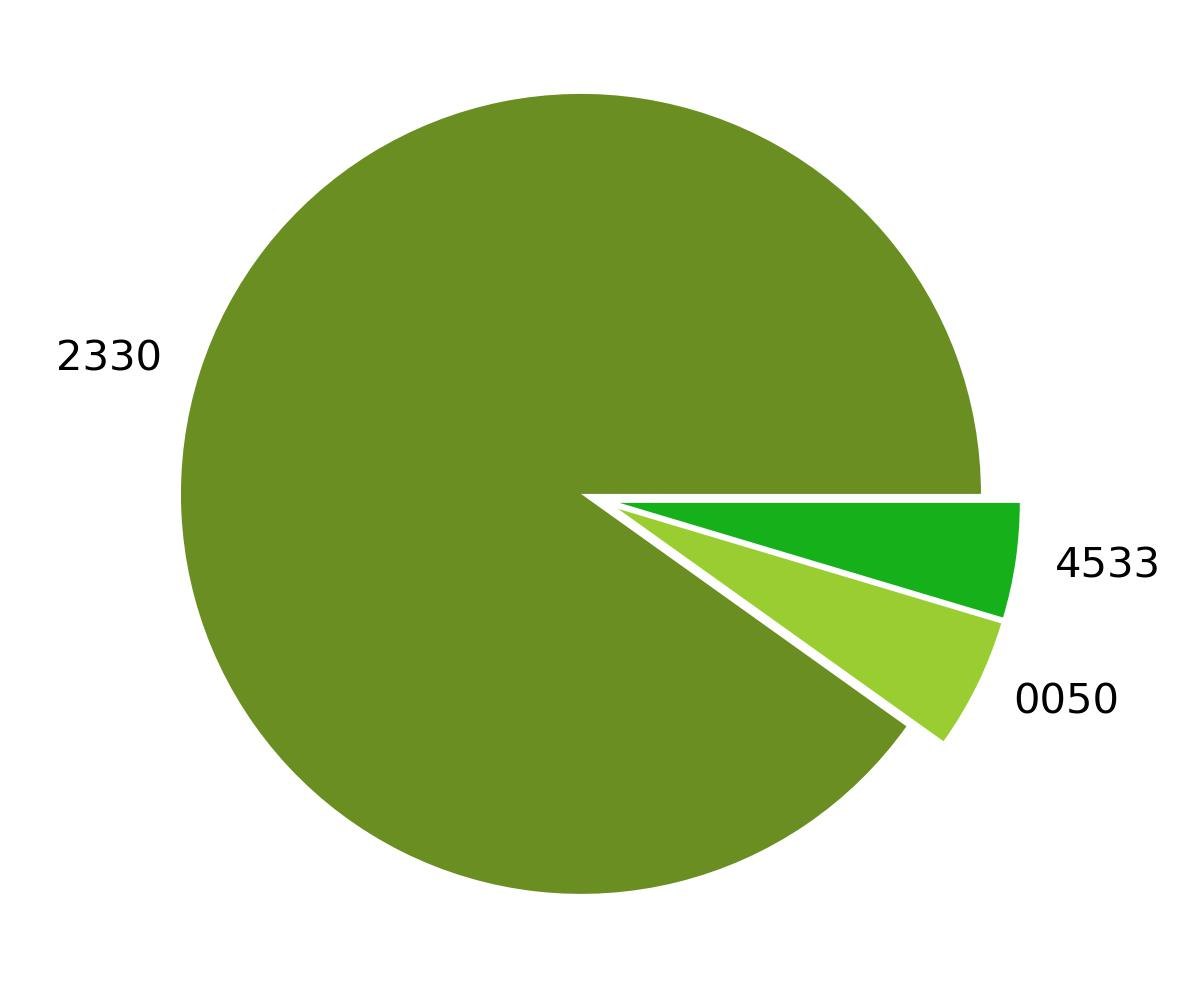
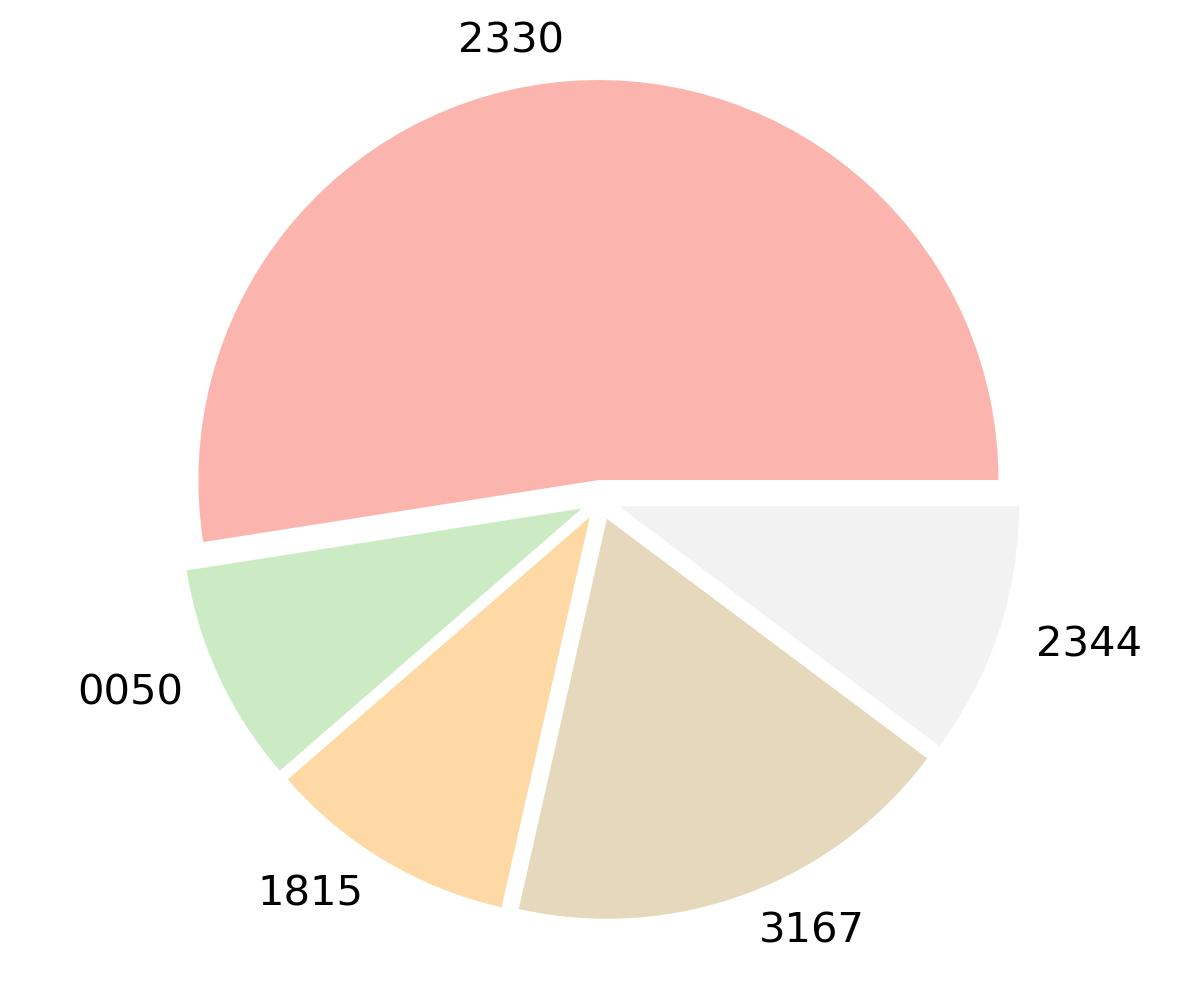
UI設計

diff --git a/templates/index.html b/templates/index.html
@@ -250,14 +250,32 @@
 <div id="chart" style="display: flex; flex-wrap: wrap" >
   <!--去判斷要不要顯示figure-->
   {% if data["show_pic_1"] %}
-  <figure style="flex: 0 1 500px; margin: 10px">
-    <figcaption style="font-size: 18px;">Stock Warehouse Occupancy Chart</figcaption>
+  <figure style="flex: 0 1 500px; margin: 10px; text-align:center">
     <img style="width: 100%" src="/static/piechart.jpg" alt="股票庫存占比圖" />
+    <figcaption style="
+      font-size: 18px; 
+      margin-top: 1rem; 
+      padding: 0.5rem;
+      border-radius: 15px;
+      box-shadow: 0 4px 10px rgba(0, 0, 0, 0.15);
+      display:inline-block; 
+      background-color:white" >
+      Stock Allocation Chart
+    </figcaption>
   </figure>
   {% endif %} {% if data["show_pic_2"] %}
-  <figure style="flex: 0 1 500px; margin: 15px">
-    <figcaption style="font-size: 18px;">Asset Ratio Chart</figcaption>
+  <figure style="flex: 0 1 500px; margin: 10px; text-align:center">
     <img style="width: 100%" src="/static/piechart2.jpg" alt="資產比例占比圖" />
+    <figcaption style="
+      font-size: 18px; 
+      margin-top: 1rem; 
+      padding: 0.5rem;
+      border-radius: 15px;
+      box-shadow: 0 4px 10px rgba(0, 0, 0, 0.15);
+      display:inline-block; 
+      background-color:white">
+      Asset Allocation Chart
+    </figcaption>
   </figure>
   {% endif %}
 </div>
@@ -273,6 +291,11 @@
 
   <!--左邊-->
   <span class="lacquer-regular">
+    <img 
+      src="{{ url_for('static', filename='icon/design.gif') }}" 
+      alt="idea"
+      width="30px"
+      height="30px">
     Design by:
     <img
       src="{{ url_for('static', filename='images/pie.jpeg') }}"

diff --git a/templates/base.html b/templates/base.html
@@ -91,7 +91,7 @@
           <div class="d-flex align-items-center ms-auto">
             <!-- 歡迎訊息 -->
             {% if session.get('user_id') %}
-            <span
+            <div
               class="navbar-text me-4 lacquer-regular"
               id="username"
               style="
@@ -103,8 +103,14 @@
                 font-weight: 500;
                 box-shadow: 0 4px 10px rgba(0, 0, 0, 0.15);
               "
-              >{{ session['user_id'] }}
-            </span>
+            >
+              <img
+                src="{{ url_for('static', filename='icon/user.gif') }}"
+                alt="user_photo"
+                style="width: 28px; height: 28px"
+              />
+              <span>{{ session['user_id'] }} </span>
+            </div>
             <!-- </span> -->
             {% endif %}
 

diff --git a/templates/stock-inventory.html b/templates/stock-inventory.html
@@ -84,7 +84,7 @@
 
             <!--明細按鈕-->
             <form
-              action="/stock-statements"
+              action="/stock-statement"
               method="post"
               style="margin-top: 10px"
             >

diff --git a/index.py b/index.py
@@ -10,6 +10,7 @@ import mysql.connector  # MySQL資料庫
 import os  # 為了隱藏圓餅圖的文字(如果static裡面沒有資料就不顯示文字)
 from flask import Flask, render_template, request, g, redirect, session, jsonify
 # import uuid
+import numpy as np
 import requests  # 為了全球即時匯率的API而使用的module
 import math
 import matplotlib.pyplot as plt
@@ -28,6 +29,7 @@ DB_CONFIG = {
     'password': os.environ.get("DB_PASSWORD"),  # 密碼
     'database': os.environ.get("DB_NAME"),  # 資料庫名稱
 }
+
 
 mysql_pool = mysql.connector.pooling.MySQLConnectionPool(
     pool_name="mysql_pool",
@@ -234,6 +236,7 @@ def home():
                              "total_profit": total_profit})
 
     # 如果unique_stock_list裡面有東西,我們再來繪製股票的圓餅圖,否則則不需要繪製
+
     # 繪製股票圓餅圖
     if len(unique_stock_list) != 0:
         # 用以下的code就可以繪製圖出來了
@@ -243,12 +246,13 @@ def home():
         sizes = [d["total_value"] for d in stock_info]
 
         # 根據list裡的資料數量來決定explode的數量
-        e1 = [0.05 for i in range(len(stock_info))]
+        e1 = [0.03 for i in range(len(stock_info))]
 
         fig, ax = plt.subplots(figsize=(6, 5))
+        color_stock = plt.cm.Pastel1(np.linspace(0, 1, len(sizes)))
+
         ax.pie(sizes, explode=e1, labels=labels,
-               colors=['olivedrab', '#9ACD32',
-                       '#15B01A', '#AAFF32', '#008000'],
+               colors=color_stock,
                textprops={"size": "15"}, autopct=None, shadow=None)
 
         fig.subplots_adjust(top=1, bottom=0, right=1,
@@ -262,7 +266,7 @@ def home():
         except:  # 如果圖片不存在,我們就不刪除
             pass
 
-    # 繪製股票現金圓餅圖
+    # 繪製現金圓餅圖
     if us_dollars != 0 or taiwanese_dollars != 0 or total_stock_value != 0:
 
         # 為了取得想要隱藏的標籤而做的dictionary
@@ -296,13 +300,22 @@ def home():
         sizes_count = [x for x in list(sizes) if x != 2]
 
         # 因為如果沒有任何資料或是只有其中一個的話,就不需要explode
-        e2 = [0.05 for i in range(
+        e2 = [0.03 for i in range(
             len(sizes_count))]
 
         fig, ax = plt.subplots(figsize=(6, 5))
+
+        # colors=['olivedrab', '#9ACD32', '#15B01A', '#AAFF32', '#008000']
+
+        # color_cash = plt.cm.YlGn(np.linspace(0.3, 0.9, len(sizes)))
         ax.pie(sizes, explode=e2, labels=labels,
-               colors=['olivedrab', '#9ACD32',
-                       '#15B01A', '#AAFF32', '#008000'],
+               colors=[
+                   "#A9C1A9",
+                   "#C8D5B9",
+                   "#B7B7A4",
+                   "#D4A5A5",
+                   "#9BA4B5"
+               ],
                textprops={"size": "15"}, autopct=None, shadow=None)
 
         fig.subplots_adjust(top=1, bottom=0, right=1,
@@ -721,8 +734,7 @@ def stock_delete():
 
     conn.commit()
 
-    # 當使用者刪除某一筆資料後,把頁面重新導回到首頁
-    return redirect("/")
+    return redirect("/stock-inventory")
 
 
 @app.route("/stock-update", methods=["POST"])
